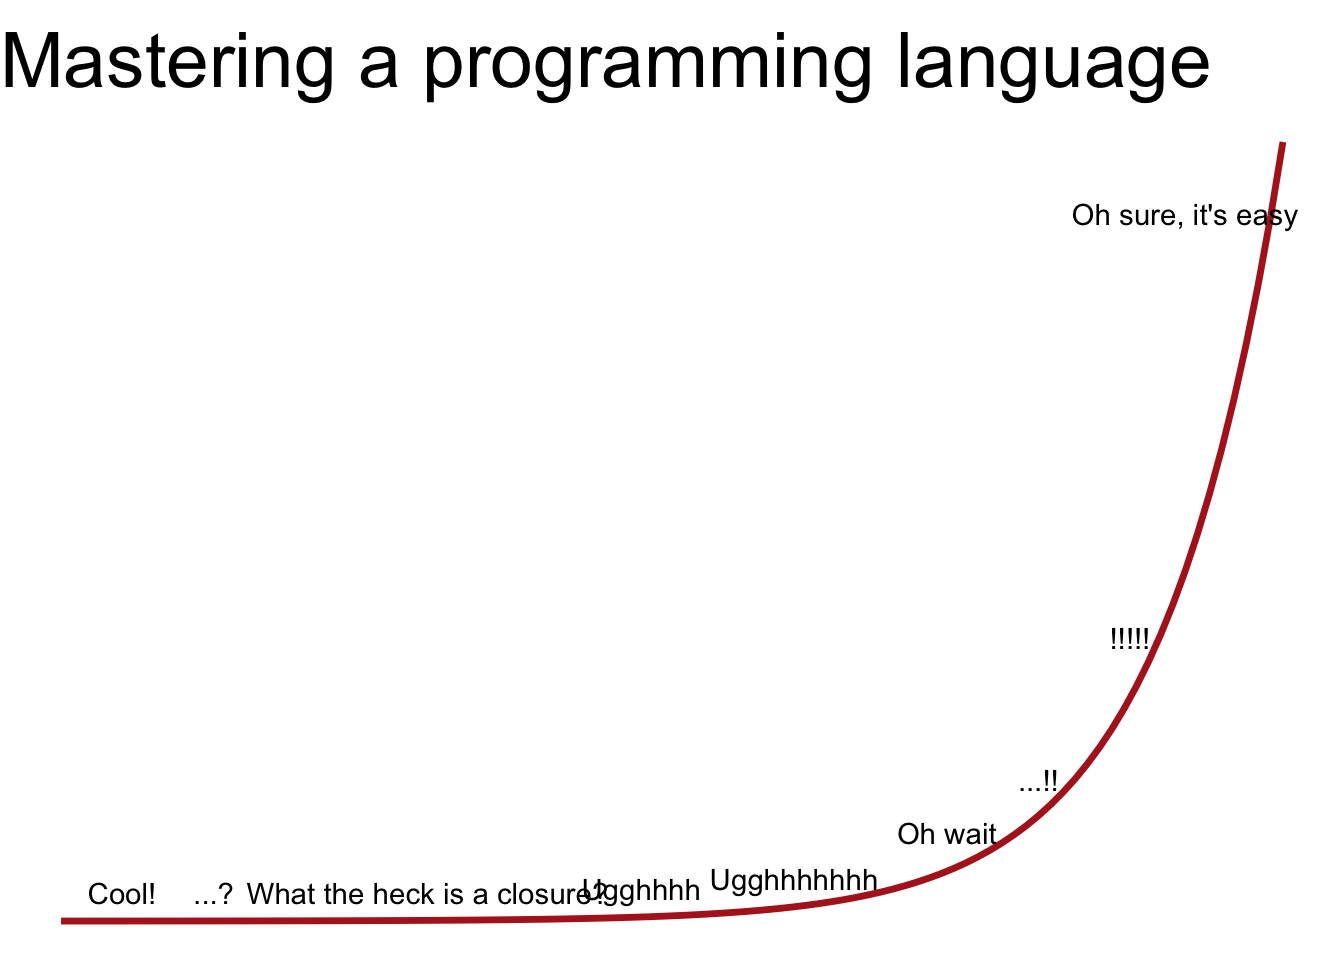
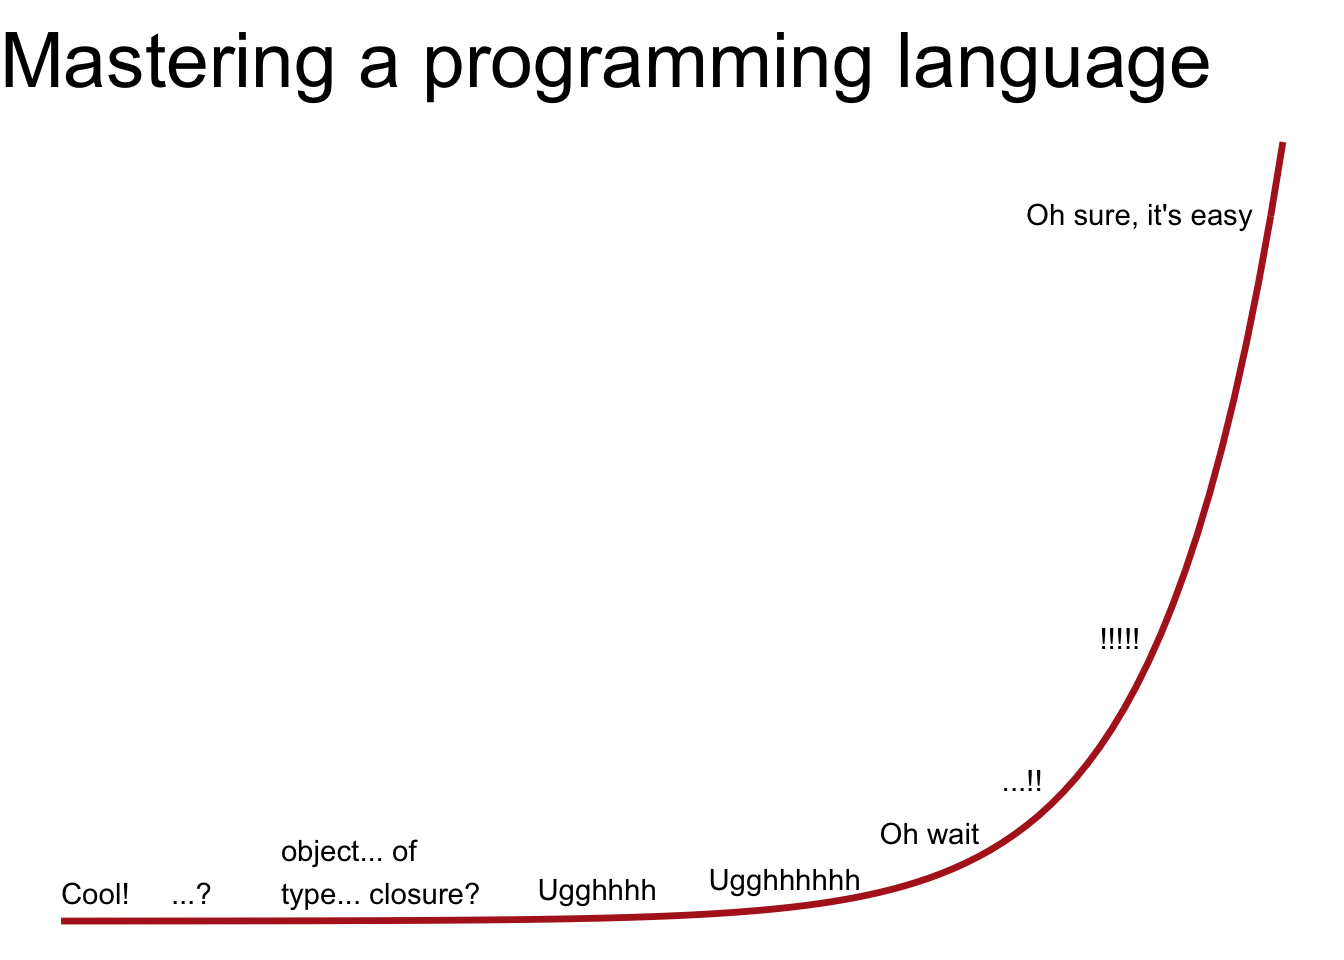
tweak plot

diff --git a/content/post/2021-01-04-data-science-as-an-atomic-habit/index.en.html b/content/post/2021-01-04-data-science-as-an-atomic-habit/index.en.html
@@ -31,37 +31,34 @@ projects: []
 <div id="data-science-as-an-atomic-habit" class="section level1">
 <h1>Data science as an Atomic Habit</h1>
 <p>In Clear’s view, the most important habits are small and consistent, whose benefits slowly build and compound over time, much like a retirement account. We <em>think</em> our abilities should grow linearly to our effort, but that is not so. My experience learning R and other data science tools followed the same path: I had an expectation of what my progress should be that turned out to be quite different from what actually happened. When you’re learning R or python, for instance, you may find yourself wondering why, if you’re coding or studying every day, you still feel like the language doesn’t <em>get</em> you. Clear uses a diagram to show this, but since this is a data science post, we might as well draw it in R:</p>
-<p>“`{r}
-library(ggplot2)
+<pre class="r"><code>library(ggplot2)
 inner_thoughts &lt;- tibble::tribble(
-~x, ~y, ~label,
-.5, 800,”Cool!“,
-1.25, 800,”…?“,
-3, 800,”What the heck is a closure?“,
-4.75, 900,”Ugghhhh“,
-6, 1200,”Ugghhhhhhh“,
-7.25, 2500,”Oh wait“,
-8, 4000,”…!!“,
-8.75, 8000,”!!!!!“,
-9.2, 20000,”Oh sure, it’s easy"
-)</p>
-<p>ggplot() +
-geom_function(fun = exp, size = 1.2, color = “firebrick”) +
-geom_text(data = inner_thoughts, aes(x, y, label = label)) +
-xlim(0, 10) +
-ggtitle(“Mastering a programming language”) +
-theme_void(24)</p>
-<pre><code>
-This is the stubbornly quiet path of practice: our abilities lag behind our effort. It&#39;s right at &quot;Ugghhhh&quot; stage that our internal motivation to keep on starts to dissolve. Sure, you can make a plot or whatever, but you&#39;re still fighting errors all day. What do you have to show for it at this point? Not that much more than when you started. But our growth is rarely linear: often, it&#39;s exponential, at least at critical moments. We suddenly begin to make connections, which help us build other relationships, and so on. Growth is never infinite (bad news: you&#39;re going to die someday even if you improve every day until then), but it&#39;s also rarely as linked to our *immediate* efforts as we expect. 
+  ~x,  ~y,    ~label,
+  0,    800,  &quot;Cool!&quot;,
+  0.9, 800,  &quot;...?&quot;,
+  1.8,  1400,  &quot;object... of\ntype... closure?&quot;,
+  3.9,  900,  &quot;Ugghhhh&quot;,
+  5.3,    1200, &quot;Ugghhhhhh&quot;,
+  6.7, 2500, &quot;Oh wait&quot;,
+  7.7,    4000, &quot;...!!&quot;,
+  8.5, 8000, &quot;!!!!!&quot;,
+  7.9, 20000, &quot;Oh sure, it&#39;s easy&quot;
+)
 
-# Practice and becoming are one action
-
-With a meaningful habit---like setting out to learn data science---part of the issue is that we&#39;re focused on the results as if our (not) being a data scientist is equal to how many errors our code makes. But that&#39;s not quite right. If you&#39;re learning to run, for instance, you aren&#39;t becoming a person who runs for 30 minutes. You&#39;re becoming a *runner*. That transformation is more profound, more challenging, and more bountiful. Running 30 minutes is just a useful strategy to engage with that transformation. When you&#39;re sitting down with code and data, you&#39;re not becoming a person who types R code without errors[^errors]. You&#39;re *becoming* a data scientist. Becoming---birth---is a slow, sometimes painful, but ultimately astounding process. In Zen, we say, &quot;don&#39;t put a head on top of your own.&quot; Don&#39;t confuse the results with what&#39;s really happening. 
-
-One of the better Hadley Wickham gifs is this one, [where he&#39;s warning R learners](http://datascience.la/hadley-wickhams-dplyr-tutorial-at-user-2014-part-1/) that, well, you&#39;re going to suck at R for a while:
-
-&quot;`{r echo=FALSE}
-blogdown::shortcode(&#39;tweet&#39;, &#39;1022233480497954817&#39;)</code></pre>
+ggplot() + 
+  geom_function(fun = exp, size = 1.2, color = &quot;firebrick&quot;) + 
+  geom_text(data = inner_thoughts, aes(x, y, label = label), hjust = 0) +
+  xlim(0, 10) + 
+  ggtitle(&quot;Mastering a programming language&quot;) + 
+  theme_void(24)</code></pre>
+<p><img src="/post/2021-01-04-data-science-as-an-atomic-habit/index.en_files/figure-html/unnamed-chunk-1-1.png" width="672" /></p>
+<p>This is the stubbornly quiet path of practice: our abilities lag behind our effort. It’s right at “Ugghhhh” stage that our internal motivation to keep on starts to dissolve. Sure, you can make a plot or whatever, but you’re still fighting errors all day. What do you have to show for it at this point? Not that much more than when you started. But our growth is rarely linear: often, it’s exponential, at least at critical moments. We suddenly begin to make connections, which help us build other relationships, and so on. Growth is never infinite (bad news: you’re going to die someday even if you improve every day until then), but it’s also rarely as linked to our <em>immediate</em> efforts as we expect.</p>
+</div>
+<div id="practice-and-becoming-are-one-action" class="section level1">
+<h1>Practice and becoming are one action</h1>
+<p>With a meaningful habit—like setting out to learn data science—part of the issue is that we’re focused on the results as if our (not) being a data scientist is equal to how many errors our code makes. But that’s not quite right. If you’re learning to run, for instance, you aren’t becoming a person who runs for 30 minutes. You’re becoming a <em>runner</em>. That transformation is more profound, more challenging, and more bountiful. Running 30 minutes is just a useful strategy to engage with that transformation. When you’re sitting down with code and data, you’re not becoming a person who types R code without errors<a href="#fn2" class="footnote-ref" id="fnref2"><sup>2</sup></a>. You’re <em>becoming</em> a data scientist. Becoming—birth—is a slow, sometimes painful, but ultimately astounding process. In Zen, we say, “don’t put a head on top of your own.” Don’t confuse the results with what’s really happening.</p>
+<p>One of the better Hadley Wickham gifs is this one, <a href="http://datascience.la/hadley-wickhams-dplyr-tutorial-at-user-2014-part-1/">where he’s warning R learners</a> that, well, you’re going to suck at R for a while:</p>
+{{% tweet "1022233480497954817" %}}
 <p>The fuller quote is:</p>
 <blockquote>
 <p>Whenever you’re learning a new tool, for a long time, you’re going to suck… But the good news is that is typical; that’s something that happens to everyone, and it’s only temporary.</p>
@@ -78,7 +75,7 @@ blogdown::shortcode(&#39;tweet&#39;, &#39;1022233480497954817&#39;)</code></pre>
 <li>Use one new function. Reading the help page counts.</li>
 <li>Make a single commit on git.</li>
 </ol>
-<p>These tiny habits are useful because you can always fit them in, but they work best when you have a sense of what you might do after. When I used to run (before a hamstring injury), I followed a running schedule, but when I was having trouble getting off the couch, I would say to myself: “all you have to do is put on your running shoes and step out on the porch, then you can be done.” Usually, that was enough for me to engage with whatever my original plan was. It’s also helpful if you’re plan involves cool or urgent things to keep you motivated. Luckily, in the world of data science, there’s no shortage of either. In other words, focus on high-impact activity. Many data scientists will benefit most from starting with data visualization and project workflow tools, while a software engineer might benefit from starting with language fundamentals.<a href="#fn2" class="footnote-ref" id="fnref2"><sup>2</sup></a></p>
+<p>These tiny habits are useful because you can always fit them in, but they work best when you have a sense of what you might do after. When I used to run (before a hamstring injury), I followed a running schedule, but when I was having trouble getting off the couch, I would say to myself: “all you have to do is put on your running shoes and step out on the porch, then you can be done.” Usually, that was enough for me to engage with whatever my original plan was. It’s also helpful if you’re plan involves cool or urgent things to keep you motivated. Luckily, in the world of data science, there’s no shortage of either. In other words, focus on high-impact activity. Many data scientists will benefit most from starting with data visualization and project workflow tools, while a software engineer might benefit from starting with language fundamentals.<a href="#fn3" class="footnote-ref" id="fnref3"><sup>3</sup></a></p>
 <p>In other words, the habit you’re building is showing up. Action drives motivation. When you wait around for motivation to manifest action, well, you end up waiting around a lot.</p>
 </div>
 <div id="tracking" class="section level1">
@@ -95,6 +92,7 @@ blogdown::shortcode(&#39;tweet&#39;, &#39;1022233480497954817&#39;)</code></pre>
 <hr />
 <ol>
 <li id="fn1"><p>The term “sitting” is a euphemism for doing meditation. It’s prevalent in Zen, where we practice <a href="https://zmm.org/teachings-and-training/meditation-instructions/">zazen</a>, a form of silent, seated meditation. In fact, “zazen” means “seated meditation” or “sitting Zen”.<a href="#fnref1" class="footnote-back">↩</a></p></li>
-<li id="fn2"><p>Where you start in a language depends on your goals and your background. Many teachers of R and python begin with things like object types and control flow. But those are <em>language</em> fundamentals; you’ll probably need to know them eventually. But if you’re studying data science, you might be better off starting with <em>data science</em> fundamentals: reading data, visualizing data, manipulating data, and so on. Of course, there’s not a correct order. Perhaps you have a computer science background, and starting with control flow sounds comforting to you!<a href="#fnref2" class="footnote-back">↩</a></p></li>
+<li id="fn2"><p>More good news/bad news: you’re never going to stop writing code with bugs. You might as well make friends with it now!<a href="#fnref2" class="footnote-back">↩</a></p></li>
+<li id="fn3"><p>Where you start in a language depends on your goals and your background. Many teachers of R and python begin with things like object types and control flow. Those are <em>language</em> fundamentals; you’ll probably need to know them eventually. But if you’re studying data science, you might be better off starting with <em>data science</em> fundamentals: reading data, visualizing data, manipulating data, and so on. Of course, there’s not a correct order. Perhaps you have a computer science background, and starting with control flow sounds comforting to you!<a href="#fnref3" class="footnote-back">↩</a></p></li>
 </ol>
 </div>
